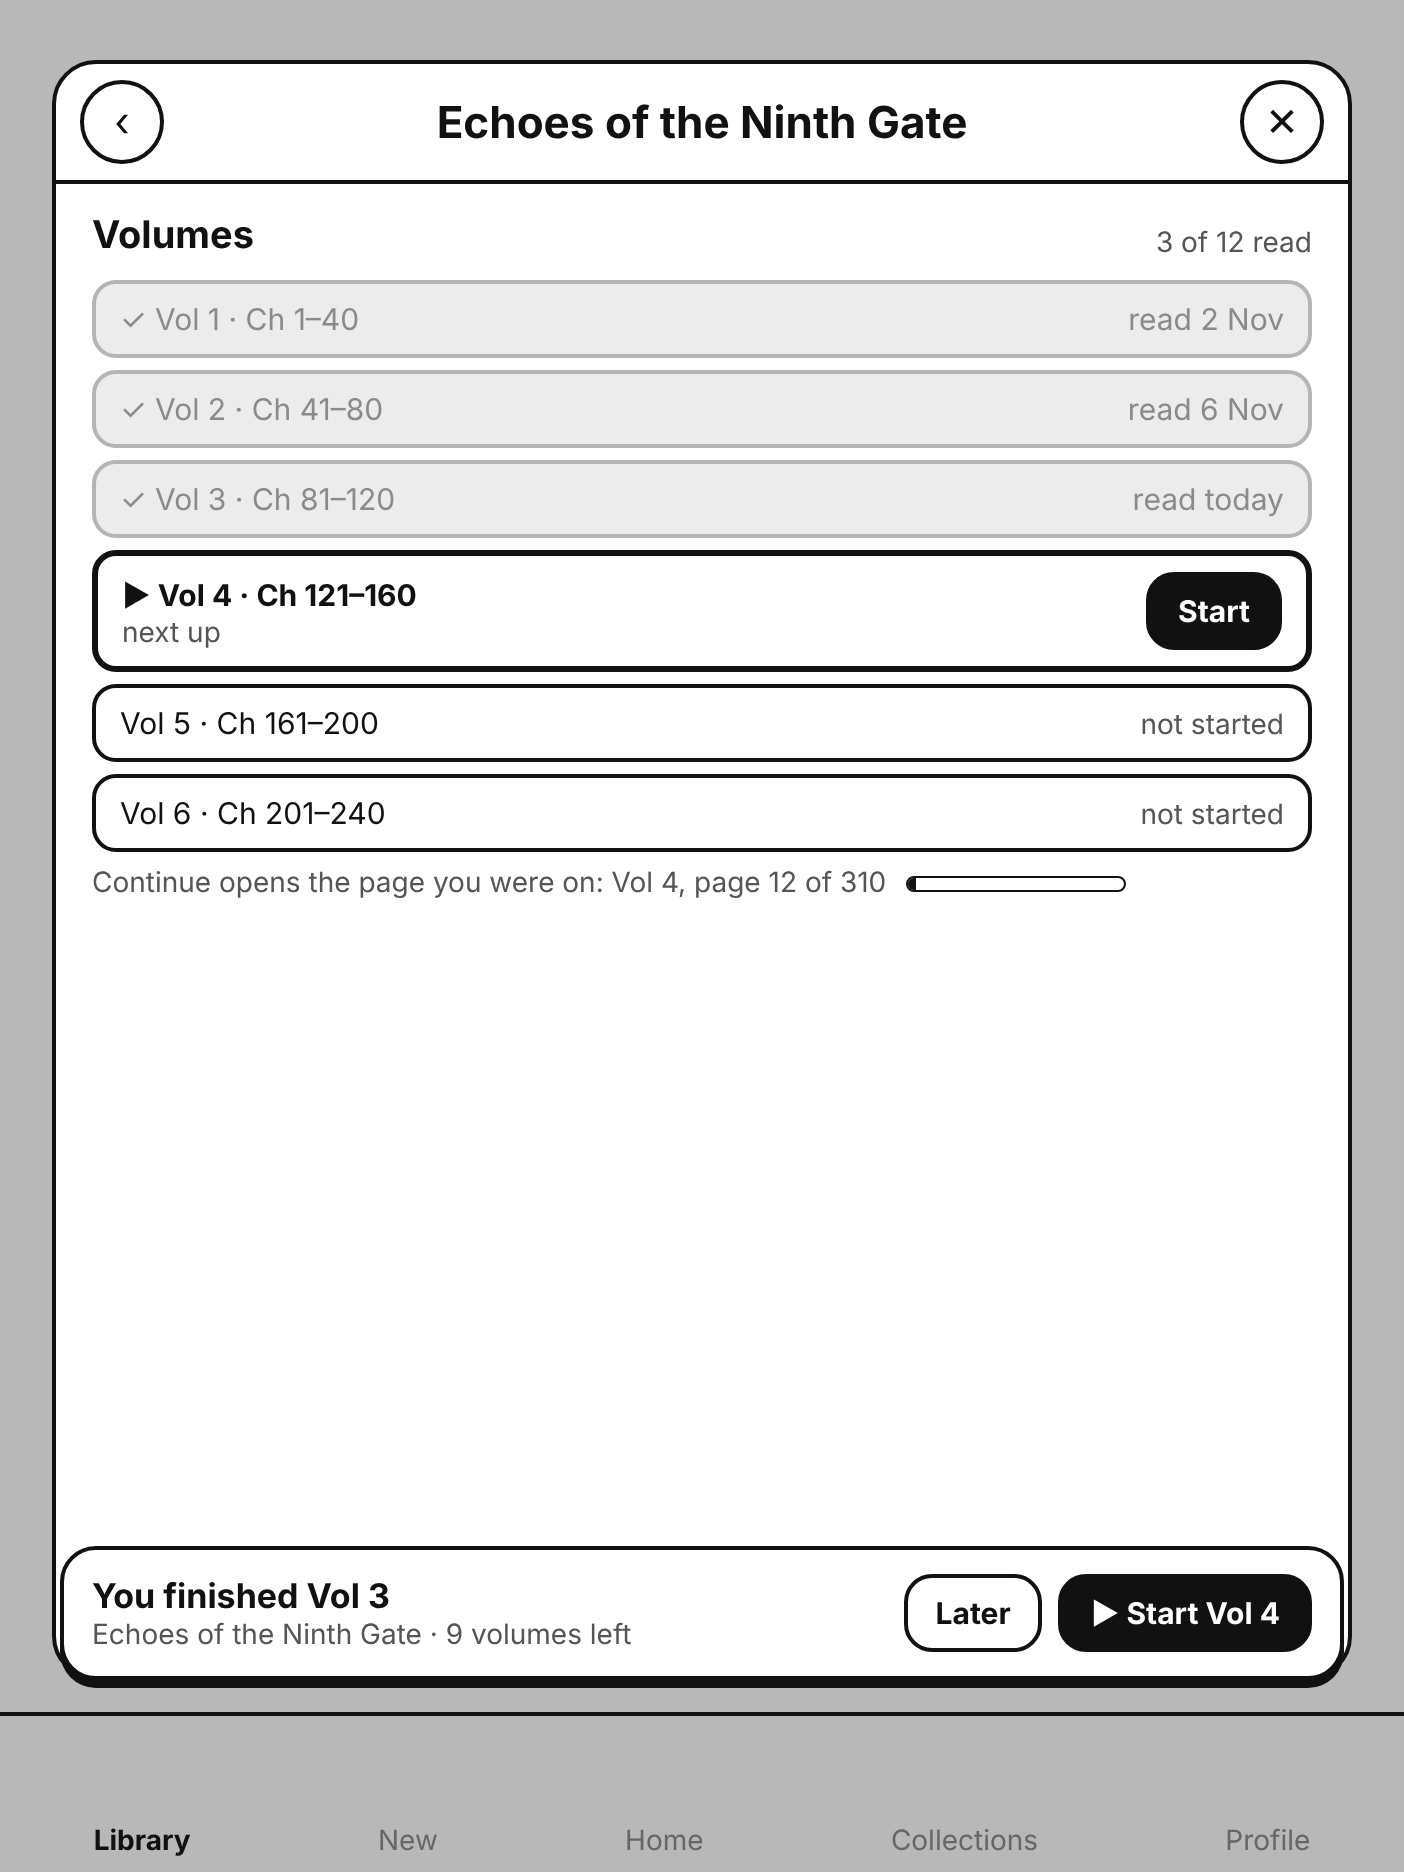
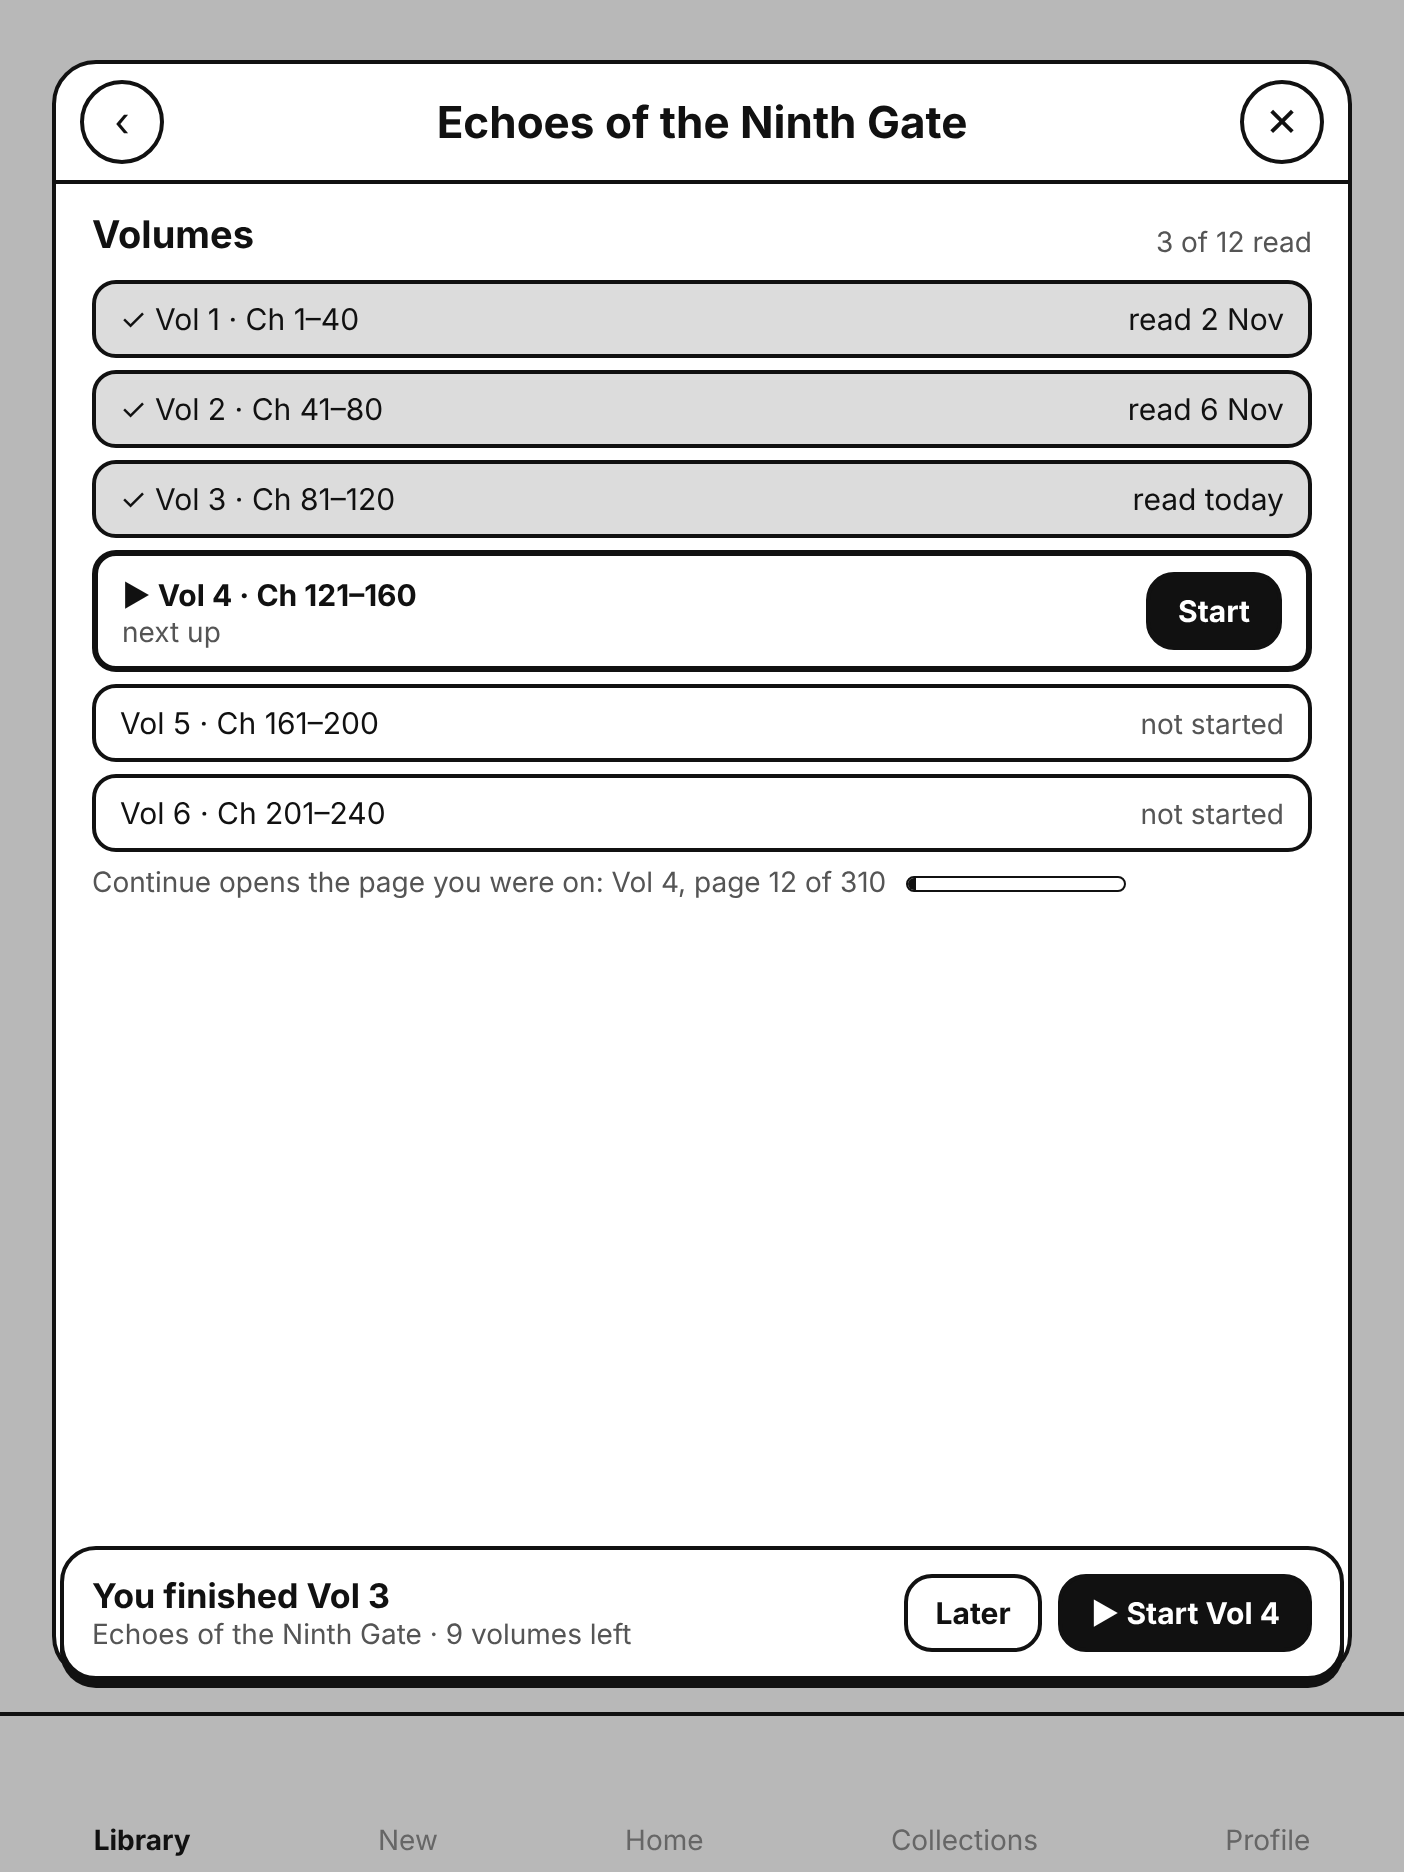
Mockup: read volumes shaded box, words stay black
Claude-Session: https://claude.ai/code/session_01X56ddDHNWUKJn2BBuoFg9X

Changed region(s): [[0.0613, 0.1549, 0.9494, 0.2788]]

diff --git a/tools/mockups/mock.html b/tools/mockups/mock.html
@@ -49,7 +49,7 @@ body{font-family:Inter;color:#111;background:#ccc}
 .bk{display:flex;gap:12px;padding:10px 0;border-bottom:1px solid #ccc}
 .cov{width:74px;height:104px;border:2px solid #111;border-radius:6px;flex:none;background:#efe3c8;font-size:11px;padding:6px;text-align:center}
 .vol{display:flex;align-items:center;justify-content:space-between;border:2px solid #111;border-radius:12px;padding:8px 12px;margin:6px 0;font-size:15px}
-.vol.done{color:#8a8a8a;border-color:#b5b5b5;background:#ececec}
+.vol.done{color:#111;border-color:#111;background:#dcdcdc}
 .bar{height:8px;border:1.5px solid #111;border-radius:5px;width:110px;overflow:hidden}.bar i{display:block;height:100%;background:#111}
 .toast{position:absolute;left:30px;right:30px;bottom:96px;border:2.5px solid #111;border-radius:18px;background:#fff;padding:12px 14px;box-shadow:0 4px 0 #111}
 .btn{display:inline-block;border:2px solid #111;border-radius:14px;padding:8px 14px;font-weight:700;font-size:15px}
